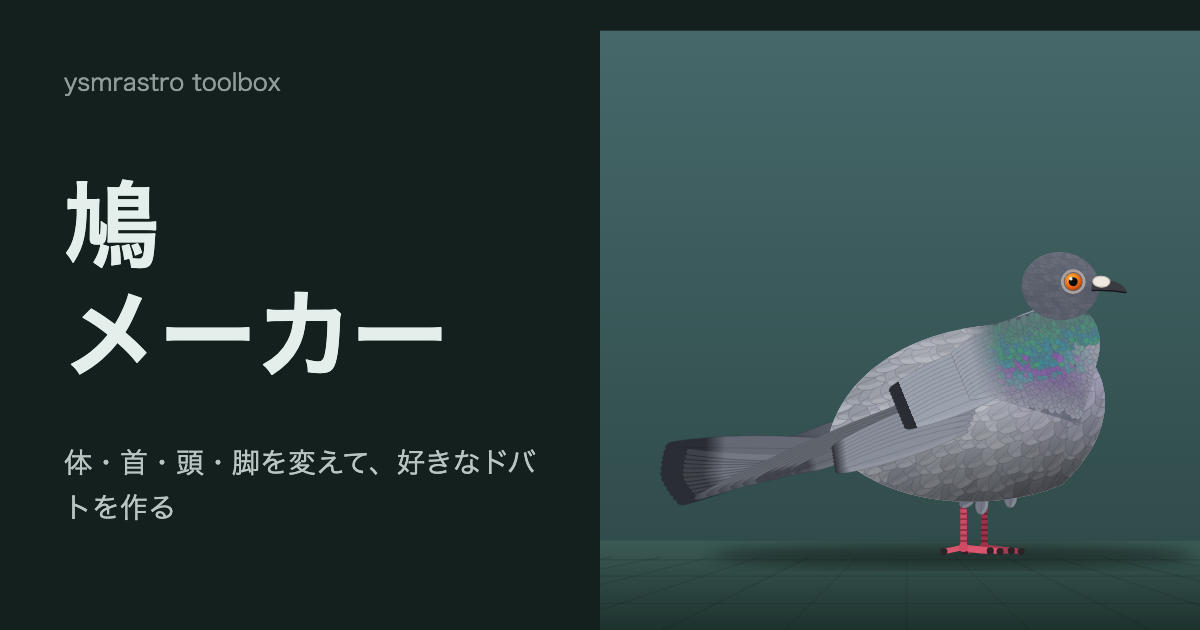
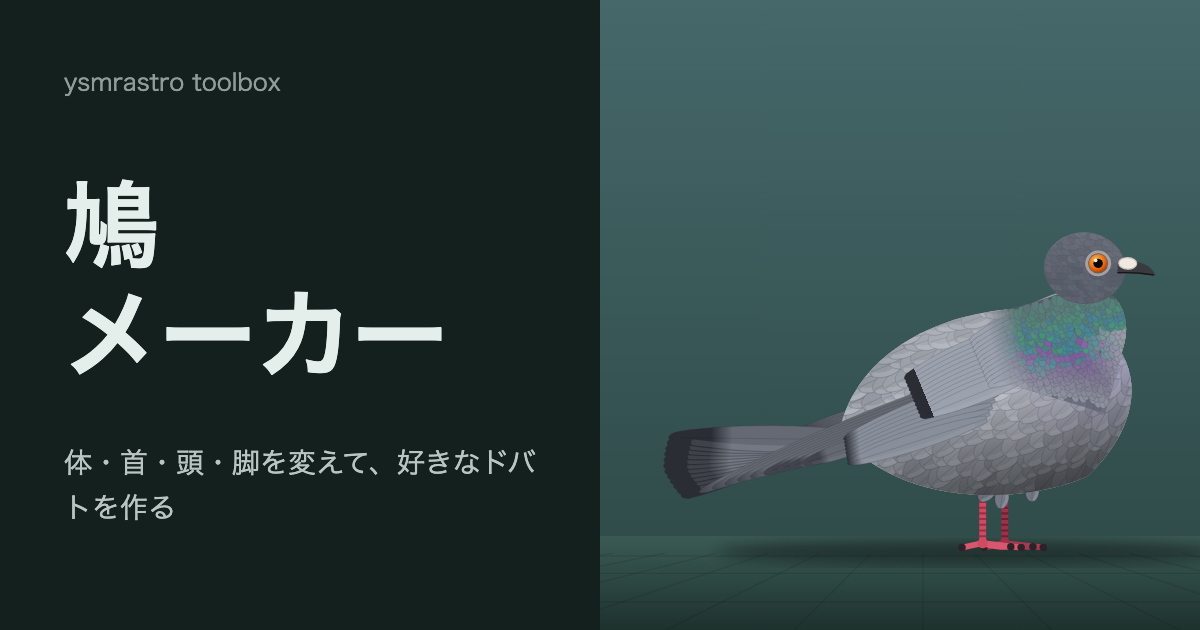
鳩メーカー: OGP の表示範囲を直す
Claude-Session: https://claude.ai/code/session_01GKDzq7dByJNYUnVyWucxve

Changed region(s): [[0.555, 0.3619, 0.9558, 0.8746], [0.4933, 0.0, 1.0, 0.0603]]

diff --git a/pigeon-maker/ogp-source.html b/pigeon-maker/ogp-source.html
@@ -23,7 +23,7 @@
   <script>
     const p = PIGEON.fromSeed(6575);
     const b = PIGEON.build(p.p, p.morph, 'stand', 6575);
-    document.getElementById('bird').innerHTML = ['A', 'B', 'C'].map(k => `<svg viewBox="95 -23 440 463" preserveAspectRatio="xMidYMid slice">${b[k]}</svg>`).join('');
+    document.getElementById('bird').innerHTML = ['A', 'B', 'C'].map(k => `<svg viewBox="95 0 418 440" preserveAspectRatio="xMidYMid slice">${b[k]}</svg>`).join('');
   </script>
 </body>
 </html>
